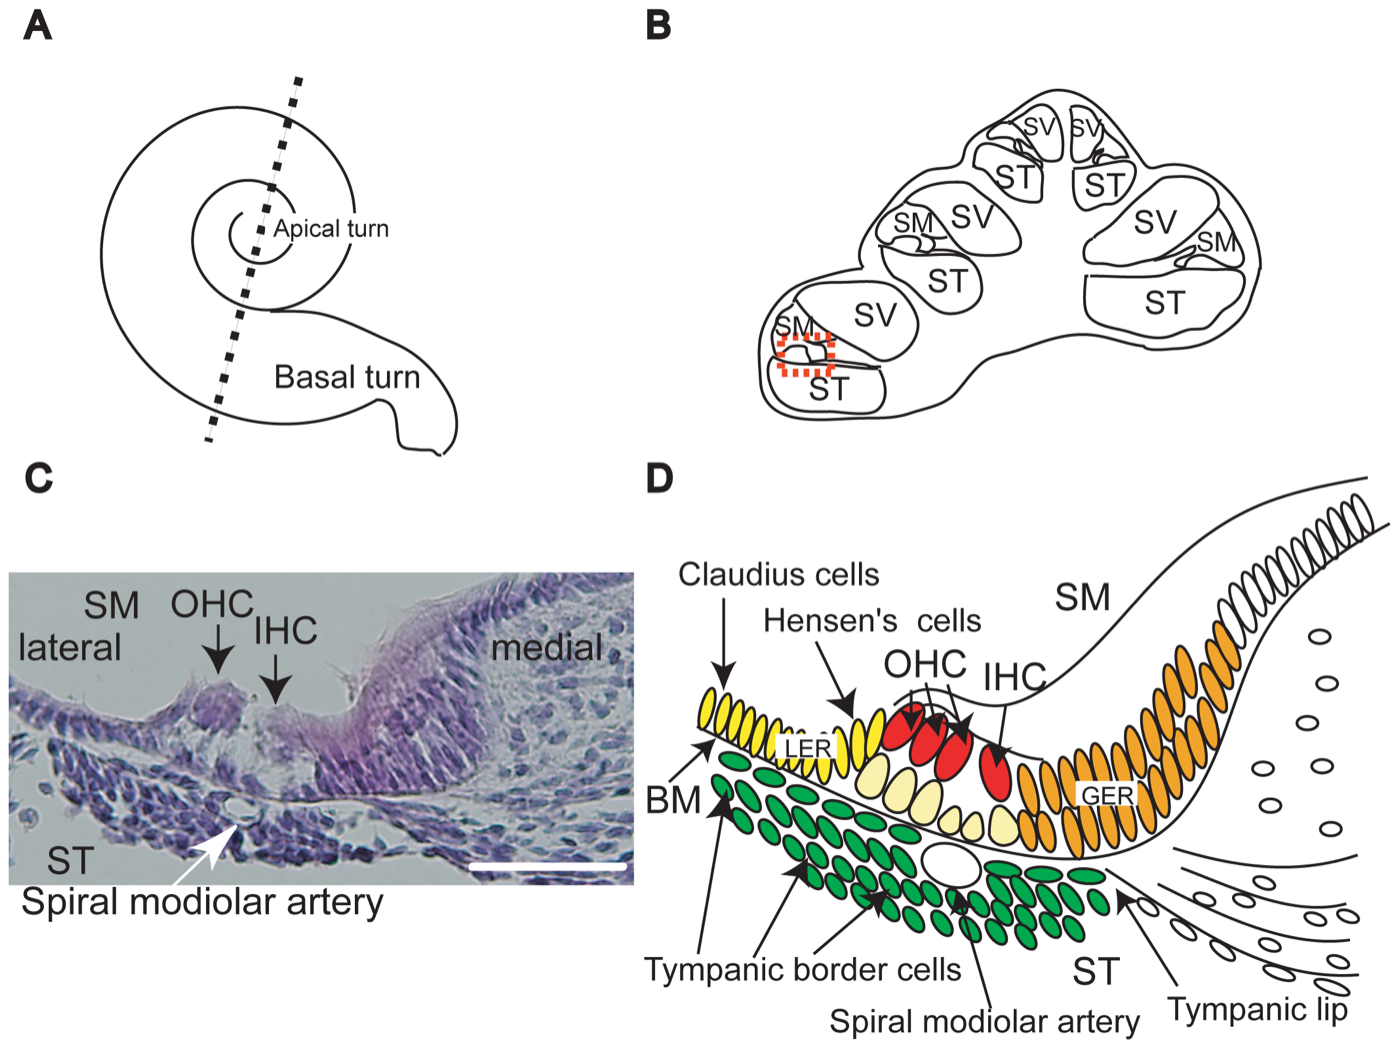
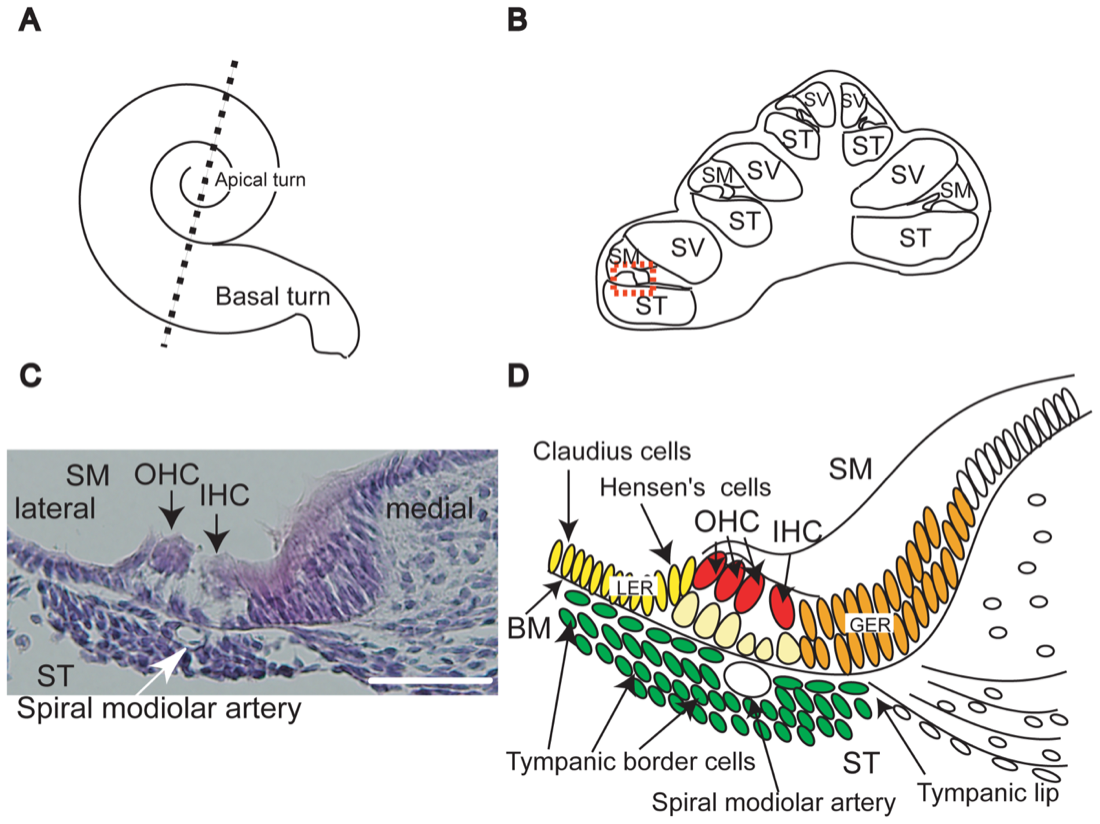
Compress media
Converts the hair-cell SEM from PNG to JPEG (photographic content
compresses poorly as PNG) and downsizes the remaining figures. Media
directory 3.1M to 2.4M, with the largest single file down from 1.2M
to 572K.

diff --git a/content/02-audition/03-transduction.md b/content/02-audition/03-transduction.md
@@ -47,7 +47,7 @@ In each case the computation is free: no spikes, no energy, no delay. Olfaction 
 
 Passive mechanics alone would give tuning far broader than what is measured, and sensitivity far worse. The resolution is that the cochlea is **active**: outer hair cells change length in response to voltage, feeding mechanical energy back into the travelling wave on a cycle-by-cycle basis.
 
-<x-figure src="content/media/hair-cells-sem.png"
+<x-figure src="content/media/hair-cells-sem.jpg"
   caption="Scanning electron micrographs of the organ of Corti. Panel A: three rows of outer hair cells with their characteristic V-shaped stereocilia bundles (top), and a single row of inner hair cells (bottom). Panels C and D: individual OHC and IHC bundles. The asymmetry is functional — the ~3,500 inner hair cells are the sensors that report to the brain, while the ~12,000 outer hair cells are mostly the amplifier, contracting and elongating to feed energy back into the travelling wave."
   credit="Lorente-Cánovas B, Eckrich S, Lewis MA, Johnson SL, Marcotti W, Steel KP. CC BY 4.0."
   source="https://commons.wikimedia.org/wiki/File:Analysis_of_cochlear_hair_cells_and_their_stereocilia._cropped.png">

diff --git a/content/media/CREDITS.md b/content/media/CREDITS.md
@@ -65,7 +65,7 @@ copied.
 - **Source:** https://commons.wikimedia.org/wiki/File:Anatomy_of_the_cochlea.png
 - **Used in:** §2.3 Transduction
 
-## hair-cells-sem.png
+## hair-cells-sem.jpg
 
 - **Authors:** Lorente-Cánovas B, Eckrich S, Lewis MA, Johnson SL, Marcotti W, Steel KP
 - **Licence:** CC BY 4.0